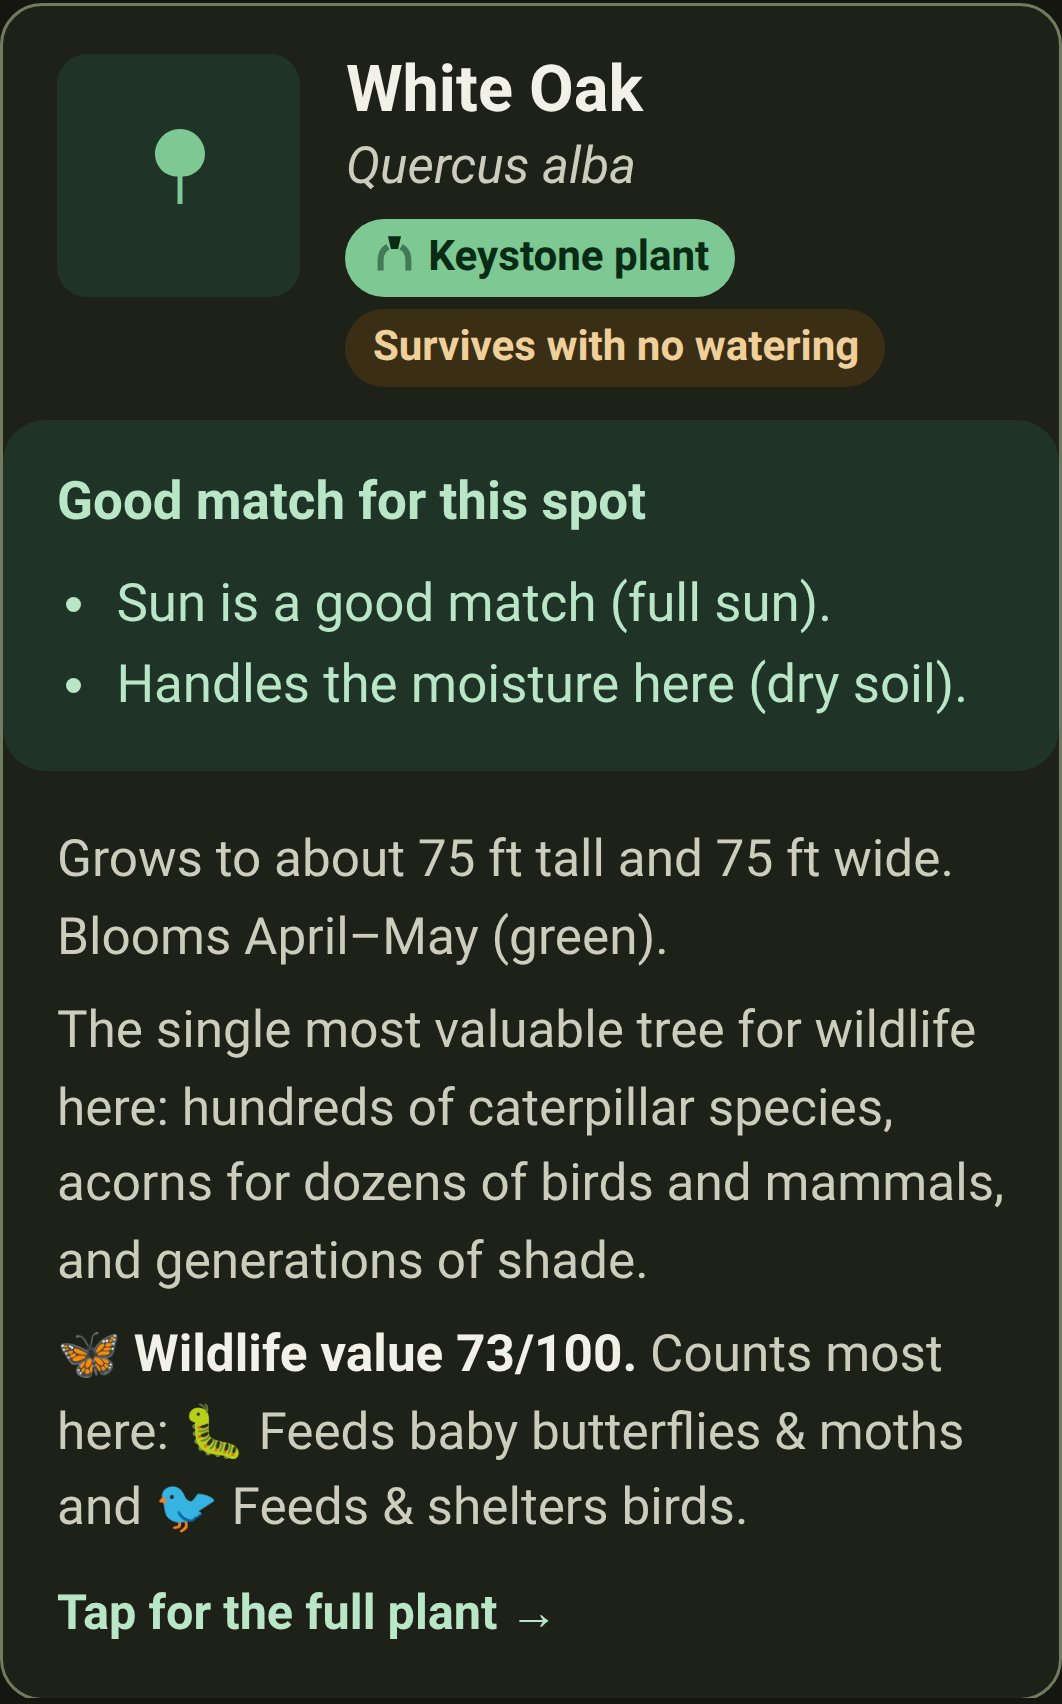
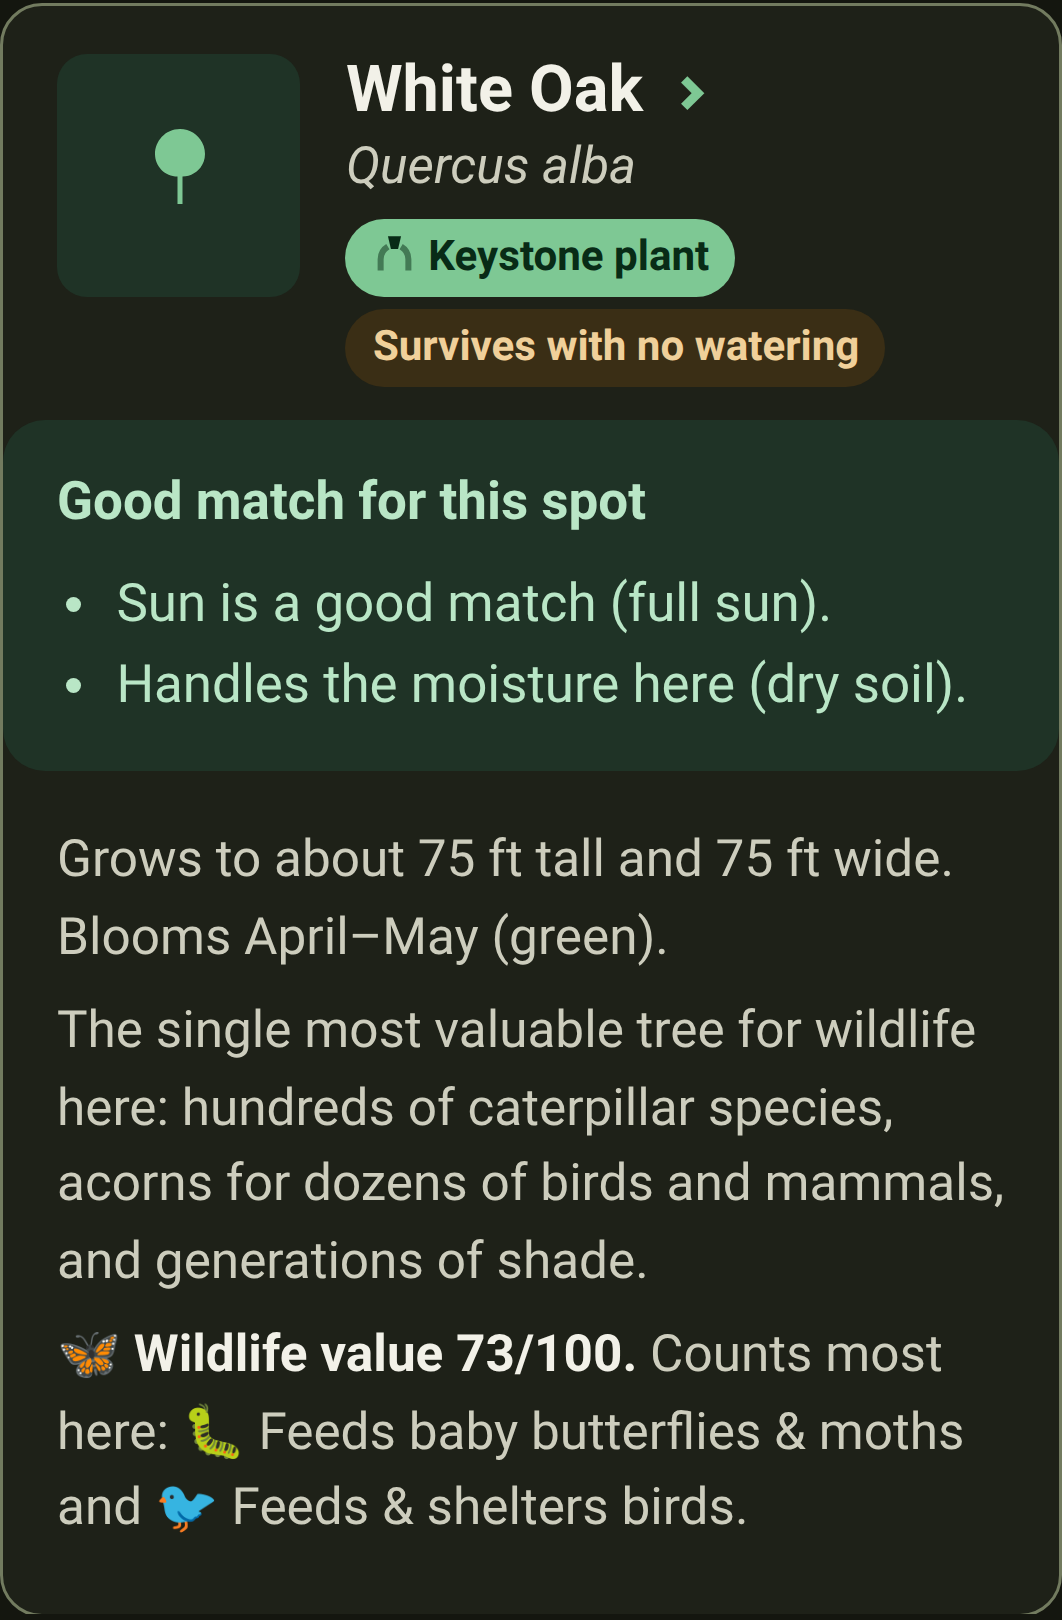
Wear the chevron the section headings just got
`main` landed one mark for "this heading leads somewhere" — a green
chevron drawn at rest, because a phone has no hover — and a card in
the ranked list is exactly that: a name that opens a page. It was
saying so in its own words ("Tap for the full plant →"), which is a
second idiom for one idea and a line of card height to keep it.

So the card's name ends in the same chevron, sharing the drawing
rather than copying it. It's a real element instead of a `::after`,
because the link's own `::after` is the overlay that stretches it
across the card, and it nudges forward on hover or focus with the
heading's timing. Card height 568px → 540px.

Screenshots re-shot against the rebased base; only the card pair moved.

Claude-Session: https://claude.ai/code/session_01AWGjERwLUd4hd1VHKba9Td

diff --git a/app/src/components/plant-card.ts b/app/src/components/plant-card.ts
@@ -60,11 +60,20 @@ export function plantCard(r: Ranked, weights: Weights, nq = ""): HTMLElement {
   // `.plant-pick`), so the card is one big target with one accessible name
   // rather than a grid of things to aim at. Nothing else in the card is
   // interactive, which is what makes that safe.
+  //
+  // It ends in the same green chevron a section heading wears (see
+  // `components/section-link.ts`) — the app's one mark for "this leads
+  // somewhere", drawn at rest because a phone has no hover. Its own element
+  // rather than a `::after`, because the link's `::after` is the overlay that
+  // stretches it across the card.
   const head = el("div", { class: "plant-head" }, [
     el("div", { class: "plant-photo", "aria-hidden": "true" }, [silhouetteFor(p.form)]),
     el("div", {}, [
       el("h3", { class: "plant-name" }, [
-        el("a", { class: "plant-pick-link", href: `#/plants/${p.id}` }, highlight(names.title, nq)),
+        el("a", { class: "plant-pick-link", href: `#/plants/${p.id}` }, [
+          ...highlight(names.title, nq),
+          el("span", { class: "pick-chevron", "aria-hidden": "true" }),
+        ]),
       ]),
       el("div", { class: names.subIsLatin ? "plant-latin" : "plant-latin plant-foreign" },
         highlight(names.sub, nq)),
@@ -102,9 +111,6 @@ export function plantCard(r: Ranked, weights: Weights, nq = ""): HTMLElement {
     meta,
     el("p", { class: "pick-gives" }, prose(p, "givesNote")),
     value,
-    // Says out loud what the stretched link does — a card that navigates on tap
-    // shouldn't be a surprise, and the pointer cursor isn't there on a phone.
-    el("p", { class: "pick-open", "aria-hidden": "true" }, t("card.openHint")),
   ]);
 }
 

diff --git a/app/src/styles.css b/app/src/styles.css
@@ -165,7 +165,12 @@ a {
   line-height: 1.6;
   vertical-align: 0.12em;
 }
-.section-link::after {
+/* The chevron itself, shared with the plant cards in a ranked list — same
+   mark, same meaning, so "this leads somewhere" looks the same everywhere. A
+   card's name draws it as a real element (`.pick-chevron`), because the link's
+   own `::after` is the overlay stretching it across the card. */
+.section-link::after,
+.pick-chevron {
   content: "";
   display: inline-block;
   width: 0.36em;
@@ -182,7 +187,9 @@ a {
   color: var(--brand-ink);
 }
 .section-link:hover::after,
-.section-link:focus-visible::after {
+.section-link:focus-visible::after,
+.plant-pick:hover .pick-chevron,
+.plant-pick:focus-within .pick-chevron {
   transform: rotate(45deg) translate(0.12em, -0.12em);
 }
 
@@ -1564,14 +1571,8 @@ details.weights {
 .pick-value strong {
   color: var(--ink);
 }
-/* Says what the whole-card link does. A pointer gets a cursor and a hover; a
-   finger gets neither, so the card says it in words. */
-.pick-open {
-  padding: 0 1rem 0.9rem;
-  margin: 0.5rem 0 0;
-  font-size: 0.9rem;
-  font-weight: 650;
-  color: var(--brand-ink);
+.pick-value {
+  padding-bottom: 0.9rem;
 }
 /* Loose text children of a plant card (the card has no padding of its own so
    media can run full-bleed) get the same gutter as everything else. */

diff --git a/app/src/locales/fr.ts b/app/src/locales/fr.ts
@@ -563,7 +563,6 @@ export const fr: Dict = {
   "card.sizeShort": "Atteint à terme environ {height} de haut et {spread} de large.",
   "card.ecoValue": "🦋 Valeur écologique {score}/100.",
   "card.strongFor": "Ce qui compte le plus ici : {list}.",
-  "card.openHint": "Touchez pour la fiche complète →",
   "card.bloomRange": "Fleurit de {from} à {to} ({color}).",
   "card.bloomRangeVowel": "Fleurit d'{from} à {to} ({color}).",
   "card.foliage": "Cultivée pour son feuillage, pas pour ses fleurs.",

diff --git a/app/src/locales/en.ts b/app/src/locales/en.ts
@@ -546,7 +546,6 @@ export const en = {
   "card.sizeShort": "Grows to about {height} tall and {spread} wide.",
   "card.ecoValue": "🦋 Wildlife value {score}/100.",
   "card.strongFor": "Counts most here: {list}.",
-  "card.openHint": "Tap for the full plant →",
   // Two forms of one sentence. Which is used depends on whether the month
   // that follows starts with a vowel — English doesn't care and defines both
   // identically, French elides ("de avril" is not a thing anyone writes).
